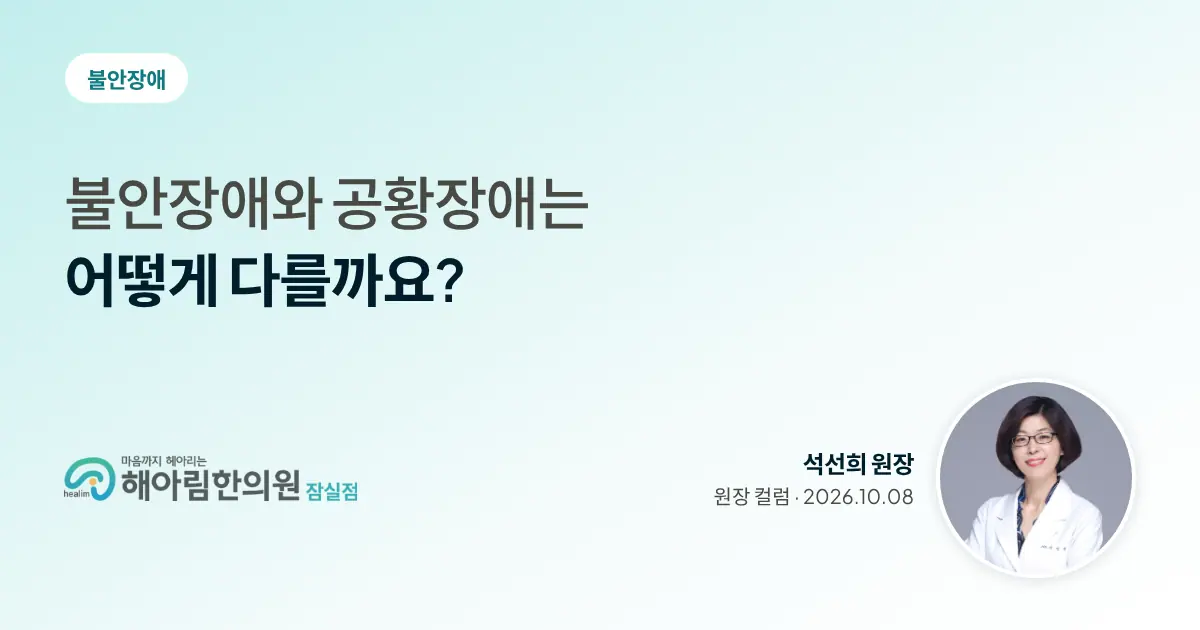
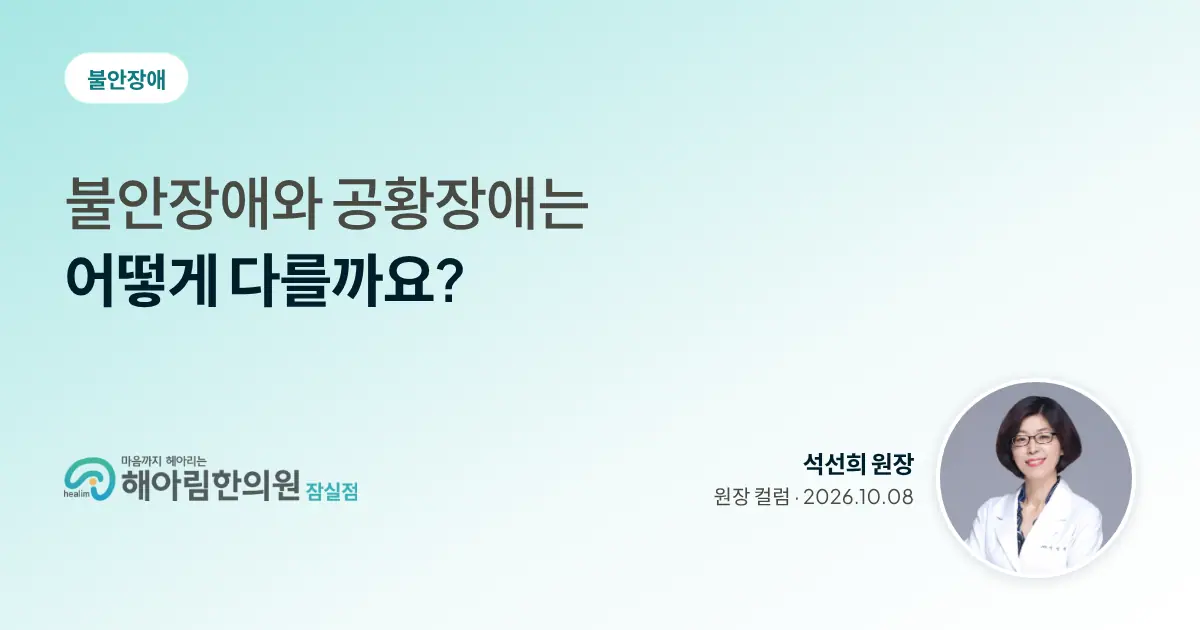
컬럼 카드 — 밝기를 섞는다
밝은 민트 8종 + 크림 2종으로 나눴는데, 민트 8종이 실은 같은 색조의 밝기만
다른 것이라 목록에서 서로 구별되지 않았다. 불면증과 우울장애를 나란히
놓으면 거의 같은 색으로 보였다.

색조를 늘리지 않고 밝기 폭을 넓힌다 — 새 색은 하나도 더하지 않았다.
헤더·푸터·버튼이 쓰는 진한 청록을 세 질환에 쓴다.

  진한  불면증 001E2B→0B4F52 · 공황장애 0B4F52→157175 ·
        우울장애 157175→0F7A7E          (흰 글자, 흰 로고)
  민트  불안장애 · 자율신경실조증 · 신경성 질환 · 강박장애
  크림  틱장애 · ADHD · 다한증

목록에서 밝은 카드와 진한 카드가 번갈아 나와 리듬이 생긴다.

data/column-cards.yaml 의 모양을 바꿨다 — 배열에서 { from, to, dark } 로.
dark: true 면 글자가 흰색으로 나가고 흰 로고(logo-white.png)를 쓴다.
질환을 더할 때 한 줄만 쓰면 된다.

흰 글자 대비 — 0B4F52 약 9:1, 157175 약 5.9:1, 0F7A7E 약 4.8:1.
제목이 44px 이상이라 큰 글자 기준(3:1)을 넉넉히 넘는다.

확인 — 34장 다시 만들어 전부 봤다. hugo --gc 통과, check-mobile 빠짐 없음.

Claude-Session: https://claude.ai/code/session_0183q4vh2xd37m6SoykVTDq4

diff --git a/tools/make-column-cards.js b/tools/make-column-cards.js
@@ -94,8 +94,13 @@ function fontSize(a, b) {
 
 const esc = s => String(s).replace(/&/g, '&amp;').replace(/</g, '&lt;').replace(/>/g, '&gt;');
 
-function html({ tag, a, b, t1, t2, size, docName, docPhoto, date }) {
+function html({ tag, a, b, dark, t1, t2, size, docName, docPhoto, date }) {
   const u = p => `http://127.0.0.1:${PORT}/${p}`;
+  /* 진한 바탕에서는 글자를 흰색으로, 로고도 흰 것으로 바꾼다 */
+  const ink  = dark ? '#FFFFFF' : '#001E2B';
+  const lead = dark ? 'rgba(255,255,255,.66)' : '#4A4A44';
+  const sub  = dark ? 'rgba(255,255,255,.80)' : '#4A4A44';
+  const logo = dark ? 'logo-white.png' : 'logo.png';
   return `<!doctype html><html lang="ko"><head><meta charset="utf-8">
 <link rel="preconnect" href="https://fonts.googleapis.com">
 <link rel="preconnect" href="https://fonts.gstatic.com" crossorigin>
@@ -109,20 +114,20 @@ function html({ tag, a, b, t1, t2, size, docName, docPhoto, date }) {
       border:1px solid #C0FAE6;border-radius:9999px;padding:9px 22px;letter-spacing:-.5px}
  h1{font-size:${size}px;line-height:1.32;letter-spacing:-1.7px;word-break:keep-all;
     text-wrap:balance;max-width:960px}
- h1 .lead{display:block;font-weight:500;color:#4A4A44}
- h1 .main{color:#001E2B;font-weight:600}
+ h1 .lead{display:block;font-weight:500;color:${lead}}
+ h1 .main{color:${ink};font-weight:600}
  .foot{display:flex;align-items:center;justify-content:space-between}
  .logo{height:46px;width:auto;opacity:.9}
  .by{display:flex;align-items:center;gap:22px}
- .nm{font-size:20px;line-height:1.5;color:#4A4A44;text-align:right}
- .nm b{display:block;font-size:24px;font-weight:600;color:#001E2B;letter-spacing:-.5px}
+ .nm{font-size:20px;line-height:1.5;color:${sub};text-align:right}
+ .nm b{display:block;font-size:24px;font-weight:600;color:${ink};letter-spacing:-.5px}
  .face{width:200px;height:200px;border-radius:9999px;object-fit:cover;border:4px solid #fff;
        box-shadow:0 2px 14px rgba(0,30,43,.14);flex:0 0 auto}
 </style></head><body><div class="c">
  <div><span class="tag">${esc(tag)}</span></div>
  <h1>${t1 ? `<span class="lead">${esc(t1)}</span>` : ''}<span class="main">${esc(t2)}</span></h1>
  <div class="foot">
-   <img class="logo" src="${u('logo.png')}" alt="">
+   <img class="logo" src="${u(logo)}" alt="">
    <span class="by">
      <span class="nm"><b>${esc(docName)}</b>원장 컬럼${date ? ` · ${esc(date)}` : ''}</span>
      ${docPhoto ? `<img class="face" src="${u(docPhoto)}" alt="">` : ''}
@@ -142,7 +147,8 @@ function html({ tag, a, b, t1, t2, size, docName, docPhoto, date }) {
 
   /* 브라우저가 가져갈 그림을 한 곳에 모아 두고 작은 서버로 넘긴다 */
   const serveDir = fs.mkdtempSync(path.join(os.tmpdir(), 'cards-'));
-  fs.copyFileSync(path.join(ROOT, 'assets/design-v3/logo.png'), path.join(serveDir, 'logo.png'));
+  for (const f of ['logo.png', 'logo-white.png'])
+    fs.copyFileSync(path.join(ROOT, 'assets/design-v3', f), path.join(serveDir, f));
   for (const f of fs.readdirSync(path.join(ROOT, 'assets/media/authors'))) {
     if (f.startsWith('card-') && f.endsWith('.jpg'))
       fs.copyFileSync(path.join(ROOT, 'assets/media/authors', f), path.join(serveDir, f));
@@ -178,7 +184,7 @@ function html({ tag, a, b, t1, t2, size, docName, docPhoto, date }) {
 
     const tags = (fm.tags || []).filter(t => t !== '칼럼');
     const tag = tags[0] || '';
-    const [a, b] = (tintData.tints || {})[tag] || tintData.default;
+    const tint = (tintData.tints || {})[tag] || tintData.default;
     const authorSlug = (fm.authors || [])[0] || '';
     const author = authors[authorSlug];
     if (!author) problems.push(`${slug}: 원장을 찾을 수 없음 (authors: ${authorSlug || '없음'})`);
@@ -188,7 +194,7 @@ function html({ tag, a, b, t1, t2, size, docName, docPhoto, date }) {
 
     const page = await browser.newPage({ viewport: { width: 1200, height: 630 } });
     await page.setContent(html({
-      tag, a, b, t1, t2, size: fontSize(t1, t2),
+      tag, a: tint.from, b: tint.to, dark: !!tint.dark, t1, t2, size: fontSize(t1, t2),
       docName: author ? author.name.display : '',
       docPhoto: authorSlug ? `card-${authorSlug}.jpg` : '',
       date,
